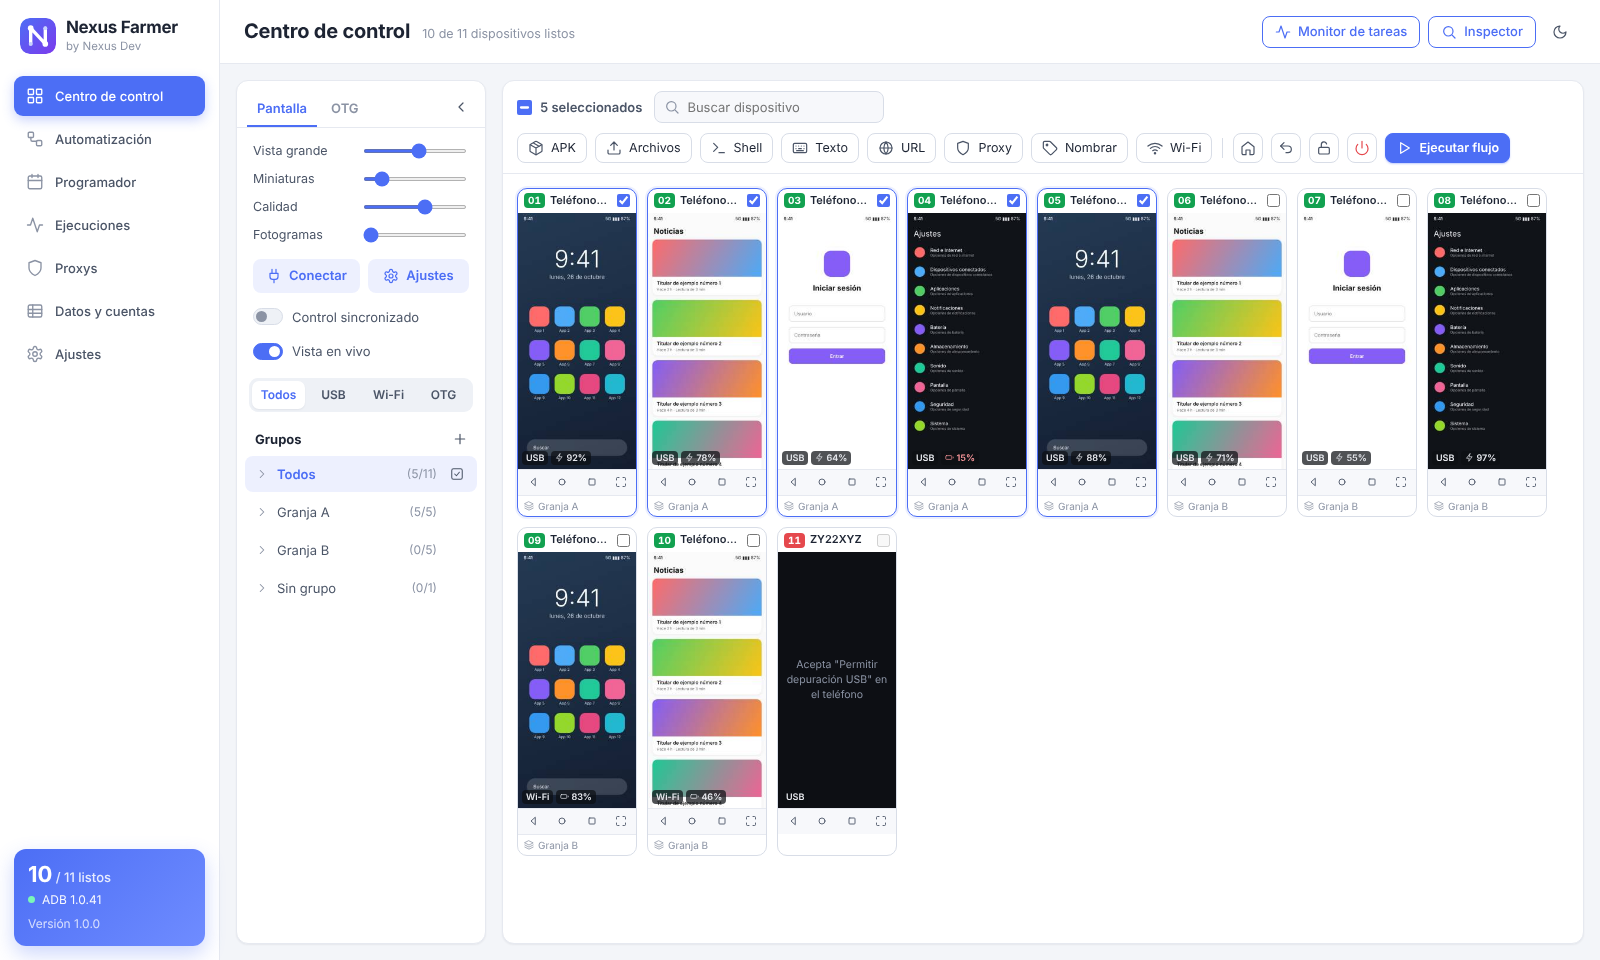
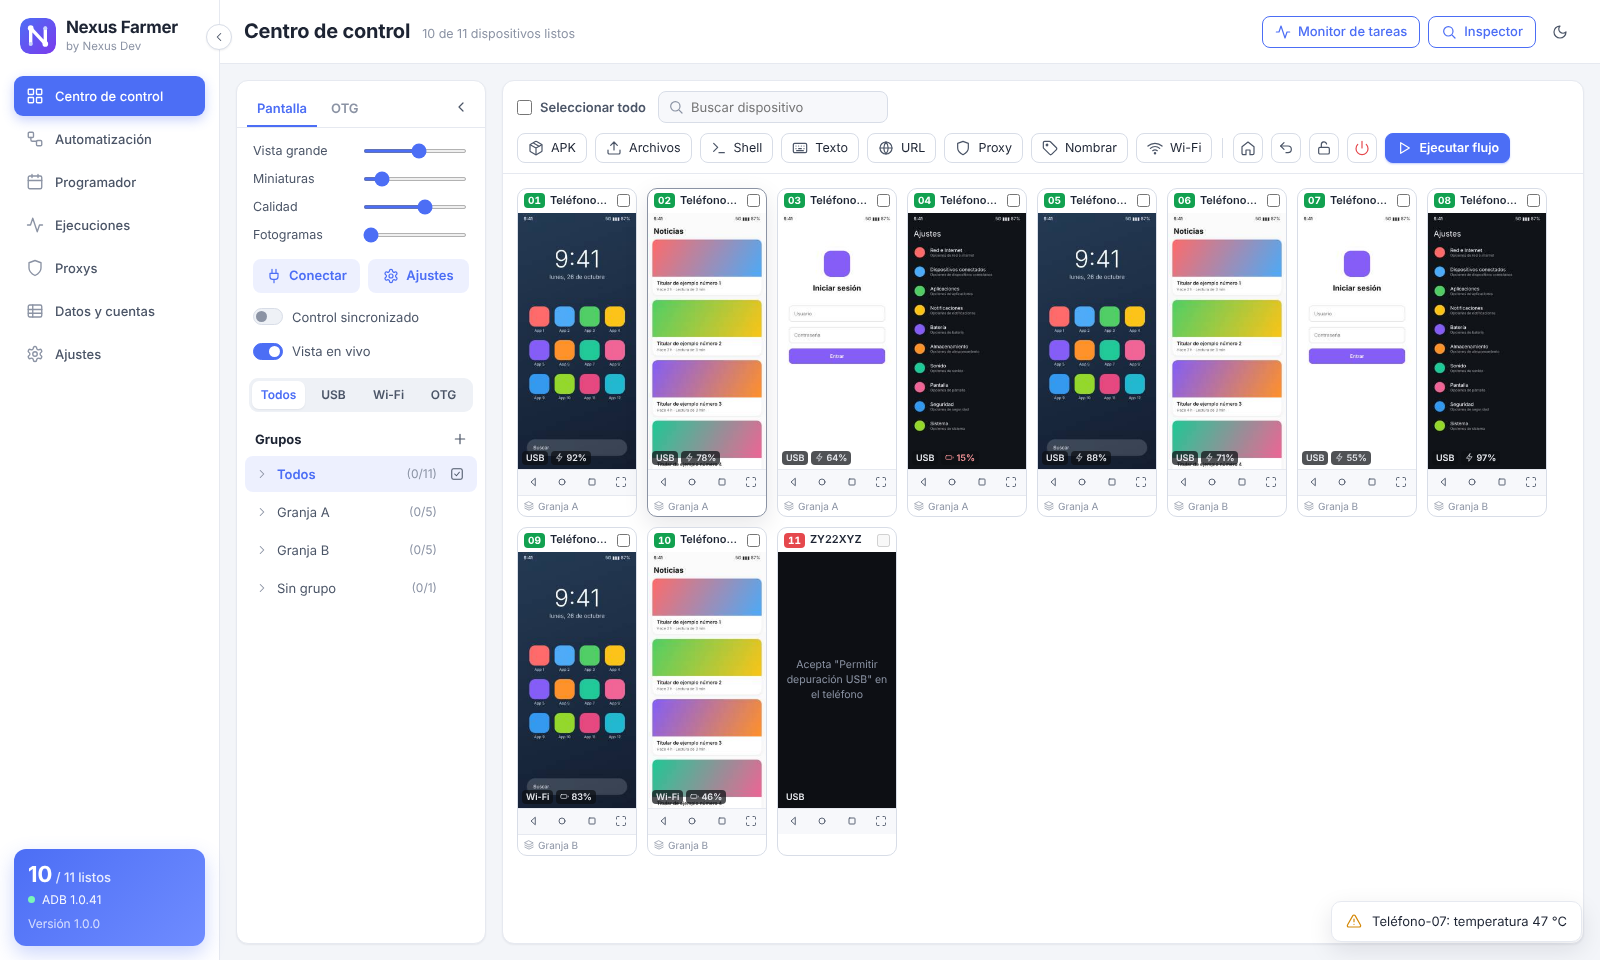
Menú lateral y panel del Centro de control contraíbles
- Botón en el borde del menú (y Ctrl+B) para dejarlo solo con iconos; los
  nombres de sección quedan como tooltip y los contadores como insignias
- El panel del Centro de control contraído muestra iconos de Pantalla, OTG y
  Grupos que lo vuelven a abrir en esa sección
- La app recuerda el estado de ambos al reiniciar

Claude-Session: https://claude.ai/code/session_018as1foW2ZCyZhSu6dJZDa2

diff --git a/src/renderer/styles.css b/src/renderer/styles.css
@@ -131,7 +131,21 @@ input[type=range] { height: 4px; padding: 0; border: 0; accent-color: var(--acce
 .count { color: var(--muted); font-size: 12px; }
 
 /* ---------- Barra lateral ---------- */
-.sidebar { width: 220px; background: var(--surface); border-right: 1px solid var(--line); display: flex; flex-direction: column; padding: 18px 14px 14px; }
+.sidebar { width: 220px; flex: none; background: var(--surface); border-right: 1px solid var(--line); display: flex; flex-direction: column; padding: 18px 14px 14px; position: relative; z-index: 5; transition: width .18s, padding .18s; }
+.edge-toggle { position: absolute; top: 24px; right: -13px; width: 26px; height: 26px; padding: 0; border-radius: 50%; background: var(--surface); border: 1px solid var(--line-2); box-shadow: var(--shadow-sm); z-index: 6; }
+.edge-toggle:hover { border-color: var(--accent); }
+.edge-toggle:hover .ic { color: var(--accent); }
+/* Menú contraído: solo iconos */
+body.side-collapsed .sidebar { width: 72px; padding: 18px 10px 14px; }
+body.side-collapsed .edge-toggle .ic { transform: rotate(180deg); }
+body.side-collapsed .brand { justify-content: center; padding: 0 0 22px; }
+body.side-collapsed .brand > div { display: none; }
+body.side-collapsed nav button { justify-content: center; padding: 0; position: relative; }
+body.side-collapsed nav button span { display: none; }
+body.side-collapsed nav button em { position: absolute; top: 3px; right: 5px; padding: 0 4px; line-height: 14px; font-size: 9.5px; background: var(--accent); color: #fff; }
+body.side-collapsed .side-card { padding: 10px 4px; align-items: center; text-align: center; }
+body.side-collapsed .side-card .row, body.side-collapsed .side-card .big span { display: none; }
+body.side-collapsed .side-card .big { font-size: 18px; }
 .brand { display: flex; gap: 10px; align-items: center; padding: 0 6px 22px; }
 .brand .logo { width: 36px; height: 36px; border-radius: 10px; flex: none; }
 .brand b { display: block; font-size: 17px; letter-spacing: -.02em; line-height: 1.15; }
@@ -172,9 +186,15 @@ main { flex: 1; min-width: 0; display: flex; flex-direction: column; }
 /* ---------- Centro de control ---------- */
 .cc { flex: 1; display: flex; min-height: 0; padding: 16px; gap: 16px; }
 .cc-panel { width: 250px; flex: none; background: var(--surface); border: 1px solid var(--line); border-radius: var(--radius); display: flex; flex-direction: column; overflow: hidden; box-shadow: var(--shadow-sm); transition: width .18s; }
-.cc.collapsed .cc-panel { width: 46px; }
-.cc.collapsed .cc-panel > :not(.tabs), .cc.collapsed .tabs > :not(.collapse) { display: none; }
+.cc.collapsed .cc-panel { width: 52px; }
+.cc.collapsed .cc-panel > :not(.tabs):not(.cc-rail), .cc.collapsed .tabs > :not(.collapse) { display: none; }
+.cc.collapsed .tabs { justify-content: center; padding: 10px 0 6px; }
+.cc.collapsed .tabs .collapse { margin: 0; }
 .cc.collapsed .collapse .ic { transform: rotate(180deg); }
+.cc-rail { display: none; flex-direction: column; align-items: center; gap: 6px; padding: 10px 0; }
+.cc.collapsed .cc-rail { display: flex; }
+.cc-rail button { width: 34px; height: 34px; }
+.cc-rail button .ic { width: 18px; height: 18px; }
 .tabs { display: flex; align-items: center; gap: 4px; padding: 10px 10px 0; border-bottom: 1px solid var(--line); }
 .tabs button { background: transparent; border: 0; border-bottom: 2px solid transparent; border-radius: 0; height: 36px; padding: 0 10px; color: var(--muted); font-weight: 600; }
 .tabs button:hover { background: transparent; color: var(--text); }

diff --git a/src/renderer/app.js b/src/renderer/app.js
@@ -24,6 +24,13 @@ export function renderSideStatus() {
   $('#monitorCount').textContent = running || '';
 }
 
+/** Contrae o expande el menú lateral y recuerda la elección. */
+function setSidebarCollapsed(on) {
+  document.body.classList.toggle('side-collapsed', on);
+  $('#sideToggle').title = on ? 'Expandir menú (Ctrl+B)' : 'Contraer menú (Ctrl+B)';
+  try { localStorage.setItem('nexus.sidebarCollapsed', on ? '1' : '0'); } catch {}
+}
+
 function applyTheme(theme) {
   document.documentElement.dataset.theme = theme;
   $('#btnTheme').innerHTML = icon(theme === 'dark' ? 'sun' : 'moon');
@@ -37,6 +44,15 @@ async function main() {
   applyTheme(theme);
   $('#btnTheme').onclick = () => applyTheme(document.documentElement.dataset.theme === 'dark' ? 'light' : 'dark');
   $('#btnMonitor').onclick = () => switchView('runs');
+  // Con el menú contraído solo se ven los iconos: el nombre de cada sección queda como tooltip.
+  $$('nav button').forEach((b) => { b.title = b.querySelector('span').textContent; });
+  let sideCollapsed = false;
+  try { sideCollapsed = localStorage.getItem('nexus.sidebarCollapsed') === '1'; } catch {}
+  setSidebarCollapsed(sideCollapsed);
+  $('#sideToggle').onclick = () => setSidebarCollapsed(!document.body.classList.contains('side-collapsed'));
+  window.addEventListener('keydown', (e) => {
+    if (e.ctrlKey && e.key.toLowerCase() === 'b') { e.preventDefault(); $('#sideToggle').click(); }
+  });
   $('#btnInspector').onclick = () => openInspector();
   await reloadState();
   $$('nav button').forEach((b) => (b.onclick = () => switchView(b.dataset.view)));

diff --git a/src/renderer/devices.js b/src/renderer/devices.js
@@ -516,7 +516,22 @@ export function initDevices() {
     $$('#ccTabs [data-tab]').forEach((x) => x.classList.toggle('active', x === b));
     $$('.cc-tab').forEach((t) => t.classList.toggle('hidden', t.dataset.tab !== b.dataset.tab));
   }));
-  $('#ccCollapse').onclick = () => $('.cc').classList.toggle('collapsed');
+  const setPanelCollapsed = (on) => {
+    $('.cc').classList.toggle('collapsed', on);
+    $('#ccCollapse').title = on ? 'Expandir panel' : 'Contraer panel';
+    try { localStorage.setItem('nexus.panelCollapsed', on ? '1' : '0'); } catch {}
+  };
+  let panelCollapsed = false;
+  try { panelCollapsed = localStorage.getItem('nexus.panelCollapsed') === '1'; } catch {}
+  setPanelCollapsed(panelCollapsed);
+  $('#ccCollapse').onclick = () => setPanelCollapsed(!$('.cc').classList.contains('collapsed'));
+  // Iconos del panel contraído: lo expanden directamente en la sección elegida.
+  $$('.cc-rail [data-open]').forEach((b) => (b.onclick = () => {
+    setPanelCollapsed(false);
+    const tab = b.dataset.open === 'groups' ? 'screen' : b.dataset.open;
+    $(`#ccTabs [data-tab="${tab}"]`).click();
+    if (b.dataset.open === 'groups') $('#groupList').scrollIntoView({ block: 'nearest' });
+  }));
   $$('#trFilter button').forEach((b) => (b.onclick = () => { state.trFilter = b.dataset.tr || null; renderDevices(); }));
   $('#btnNewGroup').onclick = async () => {
     const sel = selectedSerials();

diff --git a/src/renderer/index.html b/src/renderer/index.html
@@ -10,6 +10,7 @@
 </head>
 <body>
   <aside class="sidebar">
+    <button class="edge-toggle" id="sideToggle" title="Contraer menú (Ctrl+B)"><i data-icon="chevron-left" data-size="14"></i></button>
     <div class="brand">
       <img class="logo" src="assets/logo.svg" alt="Nexus Dev" width="36" height="36" />
       <div><b>Nexus Farmer</b><small>by Nexus Dev</small></div>
@@ -42,7 +43,12 @@
           <div class="tabs" id="ccTabs">
             <button data-tab="screen" class="active">Pantalla</button>
             <button data-tab="otg">OTG</button>
-            <button class="collapse icon-only ghost" id="ccCollapse" title="Ocultar panel"><i data-icon="chevron-left"></i></button>
+            <button class="collapse icon-only ghost" id="ccCollapse" title="Contraer panel"><i data-icon="chevron-left"></i></button>
+          </div>
+          <div class="cc-rail">
+            <button class="ghost icon-only" data-open="screen" title="Pantalla"><i data-icon="monitor"></i></button>
+            <button class="ghost icon-only" data-open="otg" title="OTG"><i data-icon="usb"></i></button>
+            <button class="ghost icon-only" data-open="groups" title="Grupos"><i data-icon="layers"></i></button>
           </div>
           <div class="cc-tab" data-tab="screen">
             <label class="slider"><span>Vista grande</span><input type="range" id="bigSize" min="420" max="900" step="10" /></label>

diff --git a/README.md b/README.md
@@ -21,6 +21,7 @@ Capturas de la propia app con teléfonos de demostración.
 |---|---|
 | ![Centro de control](docs/capturas/01-dispositivos.png) Centro de control | ![Vista grande](docs/capturas/03-vista-grande.png) Doble clic: vista grande |
 | ![Inspector](docs/capturas/04b-inspector.png) Inspector de pantalla | ![Tema oscuro](docs/capturas/18-tema-oscuro.png) Tema oscuro y filtro por grupo |
+| ![Barras contraídas](docs/capturas/19-barras-contraidas.png) Menú y panel contraídos | |
 | ![Proxys](docs/capturas/07-proxys.png) Proxys y asignación por teléfono | ![Dispositivos con proxy](docs/capturas/08-dispositivos-con-proxy.png) Proxy visible en cada tarjeta |
 | ![Editor](docs/capturas/11-flujo-login-con-tabla.png) Editor de flujos por nodos | ![Ejecuciones](docs/capturas/13-ejecuciones.png) Ejecuciones e historial |
 | ![Programador](docs/capturas/14-programador.png) Programador | ![Ajustes](docs/capturas/17-ajustes.png) Ajustes |
@@ -43,6 +44,7 @@ Todas las capturas están en [`docs/capturas`](docs/capturas).
 
 **Centro de control**
 - Tema claro (por defecto) u oscuro.
+- El menú lateral (Ctrl+B) y el panel del Centro de control se pueden contraer; la app recuerda cómo los dejaste.
 - Panel lateral con deslizadores de vista grande, miniaturas, calidad y fotogramas por segundo, filtro USB / Wi-Fi / OTG y lista de grupos con contadores (seleccionados / total).
 - Cada teléfono lleva su número, su barra de navegación Android (atrás, inicio, recientes), su conexión, su batería y su proxy o grupo.
 - **Inspector**: muestra los elementos de la pantalla de un teléfono (texto, resource-id, posición en %) para saber qué poner en los nodos *Tocar texto*, *Tocar por resource-id* o *Tocar*.
